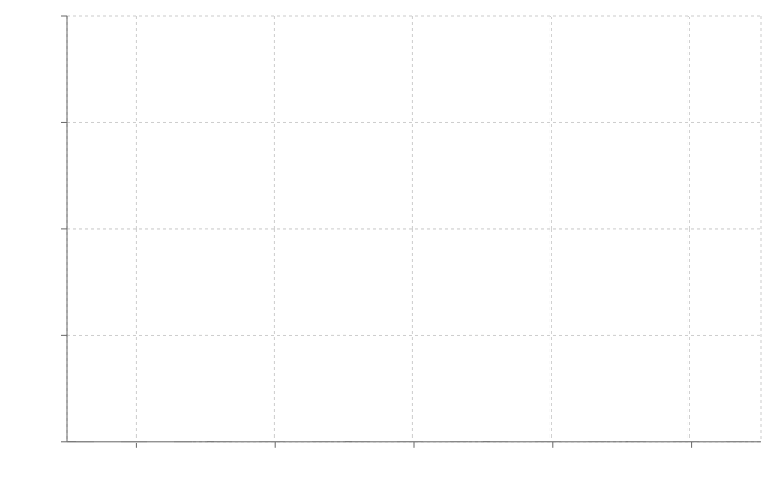
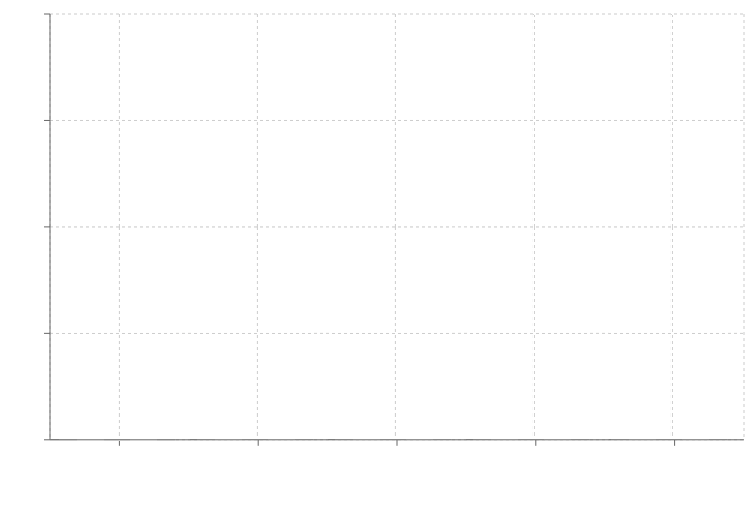
better mobile styling

Changed region(s): [[0.0617, 0.0305, 0.9866, 0.9165], [0.9866, 0.8248, 1.0, 0.8554]]

diff --git a/app/DockSelector.tsx b/app/DockSelector.tsx
@@ -6,7 +6,6 @@ import {
   Autocomplete,
   Box,
   Chip,
-  Container,
   Paper,
   TextField,
   Typography,
@@ -36,6 +35,7 @@ function getMonthName(monthNumber: number) {
 export default function DockSelector({ docks } : { docks: { id: number, name: string }[] }) {
   const [dockName, setDockName] = React.useState<string>('');
   const [dockData, setDockData] = React.useState<DockData|undefined>(undefined);
+  const [isLoading, setIsLoading] = React.useState(false);
   const dockNames = docks.map(d => d.name).sort((a,b) => a > b ? 1 : -1);
 
   const handleDockChange = async (_event: unknown, newValue: string | null) => {
@@ -43,12 +43,14 @@ export default function DockSelector({ docks } : { docks: { id: number, name: st
 
     setDockName(newDockName);
     setDockData(undefined);
+    setIsLoading(true);
 
     if (newDockName !== '') {
       const newDock = docks.find(d => d.name === newDockName);
       if (newDock !== undefined) {
         const newDockData = await getDockData(newDock.id);
         setDockData(newDockData);
+        setIsLoading(false);
       }
     }
   }
@@ -64,82 +66,89 @@ export default function DockSelector({ docks } : { docks: { id: number, name: st
   }
 
   return (
-    <Container>
-      <Box>
-        <Autocomplete
-          sx={{ flexGrow: 2, pr: 2 }}
-          id="player"
-          options={dockNames}
-          value={dockName}
-          onChange={handleDockChange}
-          renderInput={(p) => <TextField {...p} label="Dock" InputLabelProps={{ shrink: true}} />}
-          renderOption={(props, option) => {
-            return (
-              <li {...props} key={option}>
-                {option}
-              </li>
-            );
-          }}
-          renderTags={(tagValue, getTagProps) => {
-            return tagValue.map((option, index) => (
-              <Chip {...getTagProps({ index })} key={option} label={option} />
-            ))
-          }}
-        />
-      </Box>
+    <Box width={'100%'} >
+      <Autocomplete
+        sx={{ width: '100%' }}
+        id="player"
+        options={dockNames}
+        value={dockName}
+        onChange={handleDockChange}
+        renderInput={(p) => <TextField {...p} label="Dock" InputLabelProps={{ shrink: true}} />}
+        renderOption={(props, option) => {
+          return (
+            <li {...props} key={option}>
+              {option}
+            </li>
+          );
+        }}
+        renderTags={(tagValue, getTagProps) => {
+          return tagValue.map((option, index) => (
+            <Chip {...getTagProps({ index })} key={option} label={option} />
+          ))
+        }}
+      />
 
 
-      <Box sx={{ width: '100%', height: '500px', display: 'flex', justifyContent: 'center', alignItems: 'center' }}>
-        {(dockName !== '' && dockData == undefined) ? (
-          <Box sx={{ width: '100%', height: '100%', backgroundImage: 'url(/citibike-blank-chart.png)', display: 'flex', justifyContent: 'center', alignItems: 'center' }}>
-            <Image alt='loading spinner' src='/citibike-loader.gif' width={200} height={111} />
-          </Box>
+      <Box sx={{
+        width: '100%',
+        height: '500px',
+        display: 'flex',
+        justifyContent: 'center',
+        alignItems: 'center',
+        pt: 2,
+        ml: -1,
+        backgroundImage: `${isLoading ? 'url(/citibike-blank-chart.png)' : ''}`,
+        backgroundSize: '100% 100%'
+      }}>
+        {isLoading ? (
+          <Image alt='loading spinner' src='/citibike-loader.gif' width={200} height={111} />
         ): null}
+
         {dockData !== undefined ?
           <ResponsiveContainer>
-            <BarChart
-              style={{
-                fontFamily: ubuntuMonoFontFamily,
-              }}
-              width={800}
-              height={500}
-              data={chartData}
-              margin={{
-                top: 20,
-                right: 30,
-                left: 20,
-                bottom: 5,
-              }}
-            >
-              <CartesianGrid strokeDasharray="3 3" />
-              <XAxis dataKey="name" />
-              <YAxis />
-              <Tooltip
-                content={({ active, payload, label }) => {
-                  if (active && payload && payload.length) {
-                    const total = parseInt(`${payload[0].value}` ?? '', 10) + parseInt(`${payload[1].value}`, 10)
+        <BarChart
+        style={{
+          fontFamily: ubuntuMonoFontFamily,
+        }}
+        width={800}
+        height={500}
+        data={chartData}
+        margin={{
+          top: 0,
+          right: 0,
+          left: 0,
+          bottom: 0,
+        }}
+        >
+        <CartesianGrid strokeDasharray="3 3" />
+        <XAxis dataKey="name" />
+        <YAxis />
+        <Tooltip
+        content={({ active, payload, label }) => {
+          if (active && payload && payload.length) {
+            const total = parseInt(`${payload[0].value}` ?? '', 10) + parseInt(`${payload[1].value}`, 10)
 
-                    return (
-                      <Paper elevation={2} sx={{ p: 2 }}>
-                        <Typography variant="h6" component="div" sx={{ fontFamily: exoFontFamily }}>
-                          {label}
-                        </Typography>
-                        <Typography>total: {total}</Typography>
-                        <Typography>{payload[0].name}: {payload[0].value}</Typography>
-                        <Typography>{payload[1].name}: {payload[1].value}</Typography>
-                      </Paper>
-                    );
-                  }
-                }}
-              />
-              <Legend />
-              <Bar dataKey='starts' stackId='a' fill='#FB3692' />
-              <Bar dataKey='ends' stackId='a' fill='#FB9F36' />
-            </BarChart>
+            return (
+              <Paper elevation={2} sx={{ p: 2 }}>
+                <Typography variant="h6" component="div" sx={{ fontFamily: exoFontFamily }}>
+                  {label}
+                </Typography>
+                <Typography>total: {total}</Typography>
+                <Typography>{payload[0].name}: {payload[0].value}</Typography>
+                <Typography>{payload[1].name}: {payload[1].value}</Typography>
+              </Paper>
+            );
+          }
+        }}
+        />
+          <Legend />
+          <Bar dataKey='starts' stackId='a' fill='#FB3692' />
+          <Bar dataKey='ends' stackId='a' fill='#FB9F36' />
+          </BarChart>
           </ResponsiveContainer>
           : null
         }
       </Box>
-    </Container>
+    </Box>
   );
 }

diff --git a/app/page.tsx b/app/page.tsx
@@ -5,7 +5,7 @@ import { getDocks } from './action';
 
 import {
   Box,
-  Container,
+  Grid,
   Typography,
 } from "@mui/material";
 
@@ -14,15 +14,17 @@ export default async function Home() {
 
   return (
     <main>
-      <Container maxWidth="md">
-        <Typography variant="h4" component="h1" sx={{ fontFamily: exoFontFamily, pb: 2 }} >
-          Select a Dock
-        </Typography>
+      <Grid container justifyContent="center" columns={{ xs: 6, sm: 8, md: 12 }}>
+        <Grid item xs={6}>
+          <Typography variant="h4" component="h1" sx={{ fontFamily: exoFontFamily, pb: 2 }} >
+            Select a Dock
+          </Typography>
 
-        <Box sx={{ display: 'flex', pb: 2 }}>
-          <DockSelector docks={docks}/>
-        </Box>
-      </Container>
+          <Box sx={{ display: 'flex', p: 0 }}>
+            <DockSelector docks={docks}/>
+          </Box>
+        </Grid>
+      </Grid>
     </main>
   );
 }
